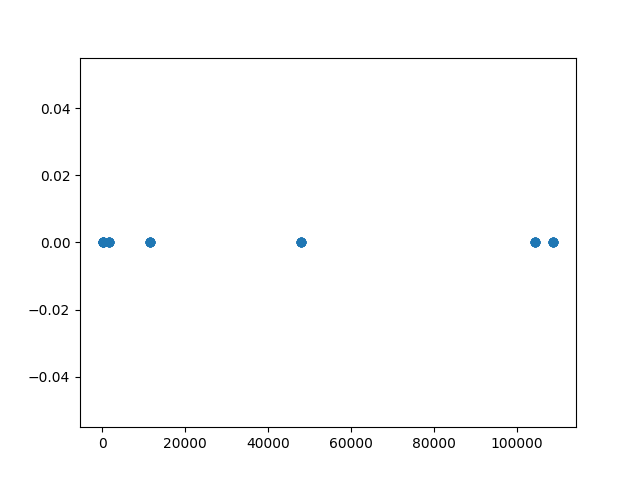
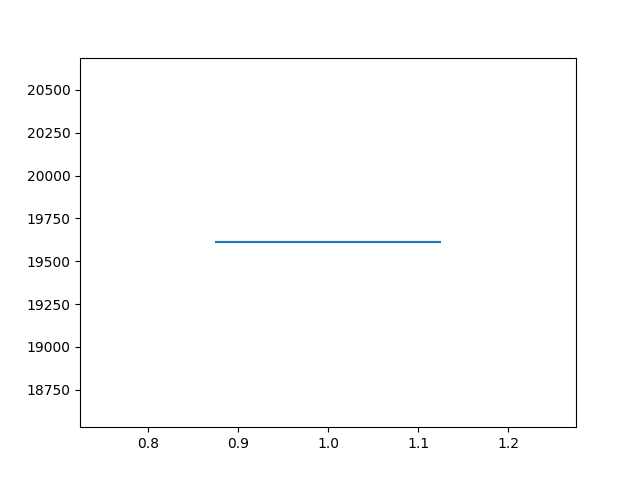
start fixing violin plots

diff --git a/src/testing_and_output.py b/src/testing_and_output.py
@@ -165,10 +165,9 @@ def plot_test_spline(bspline, dataset, percent_samples, name, fast=False):
                         distance.append((np.linalg.norm(out - sp),
                                          cl // no_classes))
                     avg.append(np.average(distance, axis=0))
-        cl_avg += avg
+        cl_avg.append(np.average(avg))
 
-    zipcl = list(zip(*cl_avg))
-    plt.scatter(zipcl[0], zipcl[1])
+    plt.violinplot(cl_avg)
 
     plt.savefig(name)
     # clear figures and axes
